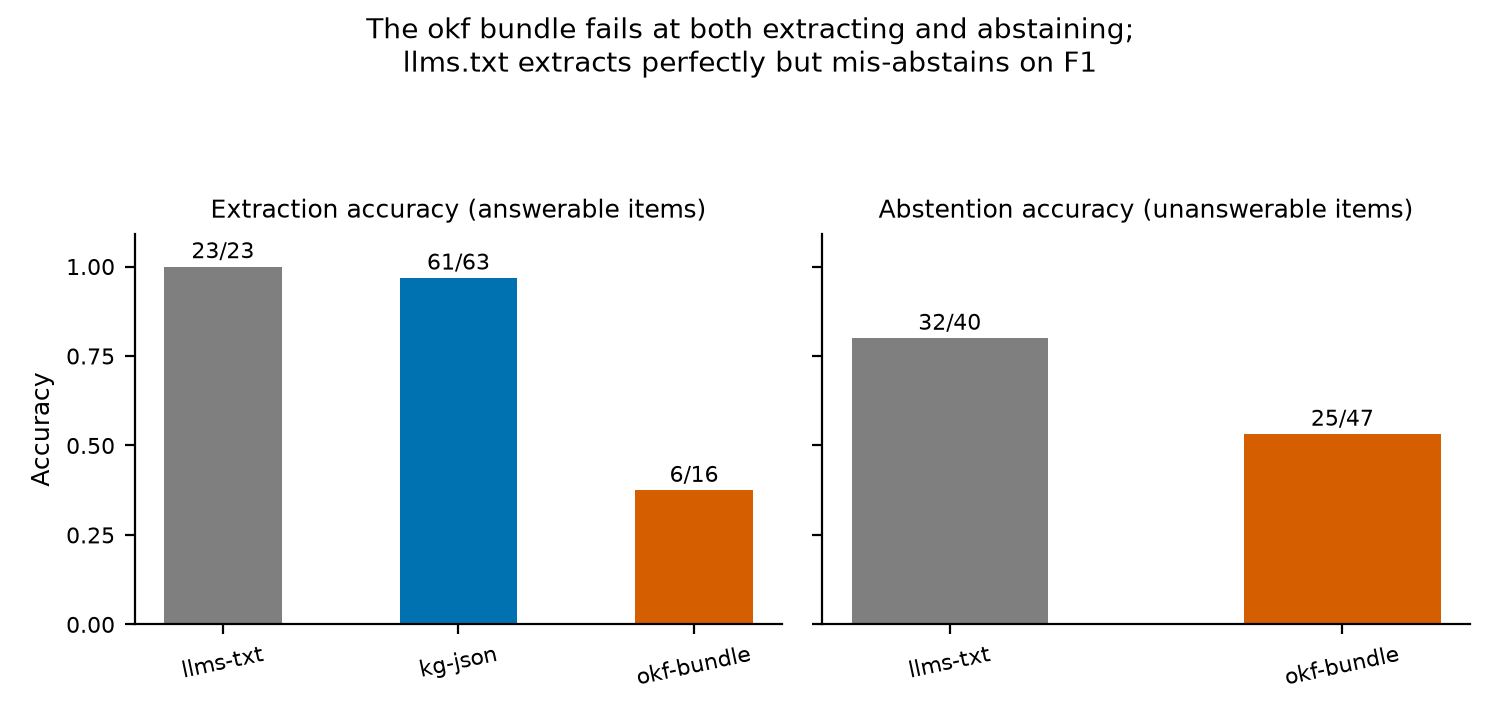
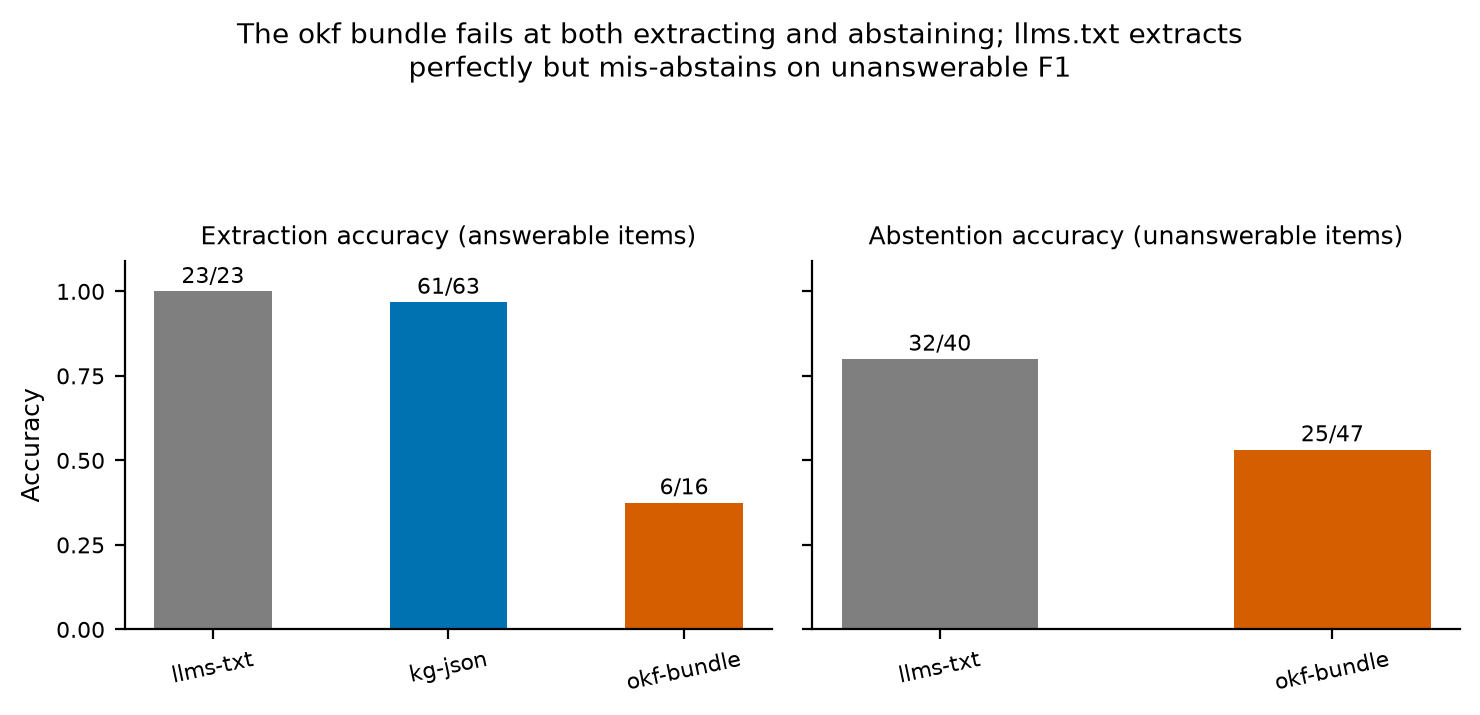
docs(exhibit): fix figure collisions, dedupe tables, fill methodology (#13)

diff --git a/figures/fig4-family-breakdown.py b/figures/fig4-family-breakdown.py
@@ -84,18 +84,18 @@ def main():
     abstention = {f: {arm: tally[arm][f] for arm in ARMS
                       if f not in ANSWERABLE[arm]} for f in families}
 
-    fig, axes = plt.subplots(1, 2, figsize=(8.6, 4.0), dpi=200)
+    fig, axes = plt.subplots(1, 2, figsize=(11.0, 4.4), dpi=200)
     draw_panel(axes[0], "Extraction (answerable arms only)", extraction)
     draw_panel(axes[1], "Abstention (unanswerable arms only)", abstention)
     handles = [plt.Rectangle((0, 0), 1, 1, color=COLORS[a]) for a in ARMS]
     fig.legend(handles, ARMS, fontsize=8, loc="upper center", ncol=3,
-               frameon=False, bbox_to_anchor=(0.5, 0.9))
+               frameon=False, bbox_to_anchor=(0.5, 0.92))
     fig.suptitle("okf-bundle collapses on the only family all arms can "
                  "answer (F4: 6/16)\nand on abstention, where llms-txt "
-                 "misses only F1", fontsize=10, y=1.0)
-    fig.tight_layout(rect=(0, 0, 1, 0.84))
+                 "misses only F1", fontsize=10, y=1.02)
+    fig.tight_layout(rect=(0, 0, 1, 0.85))
     out = pathlib.Path(__file__).resolve().parent / "fig4-family-breakdown.png"
-    fig.savefig(out)
+    fig.savefig(out, bbox_inches="tight")
     print(f"wrote {out}")
 
 

diff --git a/figures/fig1-arm-comparison.py b/figures/fig1-arm-comparison.py
@@ -21,8 +21,8 @@ ARMS = ["llms-txt", "kg-json", "okf-bundle"]
 COLORS = {"llms-txt": "#7f7f7f", "kg-json": "#0072B2", "okf-bundle": "#D55E00"}
 # Holm-adjusted McNemar exact p-values from results/analysis-v2.json.
 BRACKETS = [
-    ("llms-txt", "kg-json", "Holm p=0.070 (ns)", 0.955),
-    ("kg-json", "okf-bundle", "Holm p<1e-7", 1.075),
+    ("llms-txt", "kg-json", "Holm p=0.070 (ns)", 1.055),
+    ("kg-json", "okf-bundle", "Holm p<1e-7", 1.155),
 ]
 
 
@@ -72,7 +72,7 @@ def main():
     ax.set_xticklabels([f"{a}\n(n={counts[a][1]})" for a in arms], fontsize=9)
     ax.set_ylabel("Item score rate", fontsize=9)
     ax.tick_params(axis="y", labelsize=8)
-    ax.set_ylim(0, 1.12)
+    ax.set_ylim(0, 1.2)
     ax.set_yticks([0, 0.25, 0.5, 0.75, 1.0])
 
     for left, right, label, y in BRACKETS:
@@ -85,7 +85,7 @@ def main():
                  "scored 0.49 on preregistered item score", fontsize=10)
     fig.tight_layout()
     out = pathlib.Path(__file__).resolve().parent / "fig1-arm-comparison.png"
-    fig.savefig(out)
+    fig.savefig(out, bbox_inches="tight")
     print(f"wrote {out}")
 
 

diff --git a/figures/fig3-conditional-accuracy.py b/figures/fig3-conditional-accuracy.py
@@ -78,12 +78,12 @@ def main():
         ax.tick_params(axis="y", labelsize=8)
     axes[0].set_ylabel("Accuracy", fontsize=9)
 
-    fig.suptitle("The okf bundle fails at both extracting and abstaining;\n"
-                 "llms.txt extracts perfectly but mis-abstains on F1",
+    fig.suptitle("The okf bundle fails at both extracting and abstaining; "
+                 "llms.txt extracts\nperfectly but mis-abstains on unanswerable F1",
                  fontsize=10)
-    fig.tight_layout(rect=(0, 0, 1, 0.9))
+    fig.tight_layout(rect=(0, 0, 1, 0.87))
     out = pathlib.Path(__file__).resolve().parent / "fig3-conditional-accuracy.png"
-    fig.savefig(out)
+    fig.savefig(out, bbox_inches="tight")
     print(f"wrote {out}")
 
 

diff --git a/figures/fig2-partial-credit.py b/figures/fig2-partial-credit.py
@@ -67,7 +67,7 @@ def main():
     ax.set_ylabel("Partial credit\n(dice overlap / integer fraction)",
                   fontsize=9)
     ax.tick_params(axis="y", labelsize=8)
-    ax.set_ylim(-0.03, 1.03)
+    ax.set_ylim(-0.05, 1.07)
     ax.set_title("Partial credit separates kg-json from both other arms",
                  fontsize=10)
     ax.text(0.5, -0.24, ANNOTATION, transform=ax.transAxes, ha="center",
@@ -75,7 +75,7 @@ def main():
     fig.subplots_adjust(bottom=0.3)
     fig.tight_layout(rect=(0, 0.04, 1, 1))
     out = pathlib.Path(__file__).resolve().parent / "fig2-partial-credit.png"
-    fig.savefig(out)
+    fig.savefig(out, bbox_inches="tight")
     print(f"wrote {out}")
 
 

diff --git a/README.md b/README.md
@@ -13,13 +13,15 @@ grounding-source-exhibit is a pre-registered comparison of three grounding-sourc
 
 ## Status
 
-**Complete.** The v2.1 full run executed 63 items x 3 arms at temperature 0 with zero empty-after-retries responses; findings are in [results/findings.md](results/findings.md) and statistics in [results/analysis-v2.json](results/analysis-v2.json). The run history matters and is reported as such: the v1 run aborted before scoring (coverage ceiling; archived in [results/raw-v1-aborted/](results/raw-v1-aborted/)); the v2.0 pilot gate STOPPED the full run on a mis-preregistered F3 family and both non-kg arms answered confidently wrong (archived in [results/raw-v2-pilot-aborted/](results/raw-v2-pilot-aborted/)); v2.1 re-registered F3 as forward cluster membership before any v2.1 item ran, its pilot passed all four blocking gates ([results/raw-v2-pilot-pass/](results/raw-v2-pilot-pass/)), and only then did the full run execute. The v1 seal is archived at Zenodo DOI 10.5281/zenodo.24410381; the v2.1 run is deposited at DOI 10.5281/zenodo.24424679 under the same concept record.
+**Status: complete. Outcome: kg-json scored 61/63 and llms.txt 55/63 (Holm p = 0.070, not separable); the okf bundle scored 31/63 and lost to both arms (Holm p < 1e-5) with 23/63 context truncations and confident wrong answers on most unanswerable items.** Full statistics in [results/analysis-v2.json](results/analysis-v2.json); findings in [results/findings.md](results/findings.md).
+
+The run history matters and is reported as such: the v1 run aborted before scoring (coverage ceiling; archived in [results/raw-v1-aborted/](results/raw-v1-aborted/)); the v2.0 pilot gate STOPPED the full run on a mis-preregistered F3 family and both non-kg arms answered confidently wrong (archived in [results/raw-v2-pilot-aborted/](results/raw-v2-pilot-aborted/)); v2.1 re-registered F3 as forward cluster membership before any v2.1 item ran, its pilot passed all four blocking gates ([results/raw-v2-pilot-pass/](results/raw-v2-pilot-pass/)), and only then did the full run execute. The v1 seal is archived at Zenodo DOI 10.5281/zenodo.24410381; the v2.1 run is deposited at DOI 10.5281/zenodo.24424679 under the same concept record.
 
 ## Experiment Index
 
 | Slug | Question | Status | Key Result |
 |------|----------|--------|------------|
-| `grounding-source-v2.1` | Which grounding surface can an agent actually use: llms.txt, knowledge-graph.json, or the OKF v0.3 bundle? | complete | kg-json 61/63, llms.txt 55/63 (Holm p = 0.070, ns); okf-bundle 31/63 (Holm p < 1e-5 vs both), 23/63 truncations ([results/findings.md](results/findings.md)) |
+| `grounding-source-v2.1` | Which grounding surface can an agent actually use: llms.txt, knowledge-graph.json, or the OKF v0.3 bundle? | complete | kg-json and llms.txt not separated; okf-bundle loses to both — see [results/findings.md](results/findings.md) |
 
 ## Pipeline
 
@@ -38,7 +40,7 @@ graph TD
     figures --> findings
 ```
 
-*Figure 1: The experiment pipeline. The sealed v2.1 question set feeds all three arms, each grounded by a distinct frozen payload verified by sha256 at run start; the bench stores full raw responses per arm, score-v2.py applies the sealed per-family metric definitions with the answerability map, analysis-v2.py derives the preregistered statistics, and the figures and findings render from the same raw records.*
+*Diagram: The experiment pipeline. The sealed v2.1 question set feeds all three arms, each grounded by a distinct frozen payload verified by sha256 at run start; the bench stores full raw responses per arm, score-v2.py applies the sealed per-family metric definitions with the answerability map, analysis-v2.py derives the preregistered statistics, and the figures and findings render from the same raw records.*
 
 ## Endpoints
 
@@ -50,13 +52,7 @@ graph TD
 | llms-txt | 63 | 55 | 0.873 | [0.769, 0.934] | 1.000 (n=23) | 0.800 (n=40) | 2 |
 | okf-bundle | 63 | 31 | 0.492 | [0.373, 0.612] | 0.375 (n=16) | 0.532 (n=47) | 23 |
 
-*Table 2: Pairwise comparisons (sealed tests, `results/analysis-v2.json`).*
-
-| Pair | McNemar discordant [b, c] | Holm p | Significant at 0.05 | Permutation p (partial credit) |
-| --- | --- | --- | --- | --- |
-| llms-txt vs kg-json | [1, 7] | 0.070 | no | < 1e-4 |
-| llms-txt vs okf-bundle | [25, 1] | 1.6e-6 | yes | 0.44 (no separation) |
-| kg-json vs okf-bundle | [31, 1] | 4.6e-8 | yes | < 1e-4 |
+Pairwise McNemar exact tests with Holm-Bonferroni, and the secondary paired permutation test on partial credit, are in [results/findings.md](results/findings.md) (Primary and Secondary Endpoint sections) and re-derive from [results/analysis-v2.json](results/analysis-v2.json): llms.txt vs kg-json is not separated (Holm p = 0.070); okf-bundle loses to both (Holm p = 1.6e-6 and 4.6e-8).
 
 ## Repository Layout
 
@@ -98,19 +94,19 @@ Figure scripts live in `figures/` and render from committed `results/raw-v2/` re
 
 ![Item score per arm with 95% Wilson intervals and Holm-adjusted McNemar brackets](figures/fig1-arm-comparison.png)
 
-*Figure 2: Preregistered item-score rate per arm (correct answer or correct abstention) over the same 63 sealed questions, with 95% Wilson intervals and Holm-adjusted McNemar exact brackets. kg-json 0.97 and llms.txt 0.87 are not separated (p = 0.070); the okf bundle 0.49 loses to both (p < 1e-7 and p = 1.6e-6).*
+*Figure 1: Preregistered item-score rate per arm (correct answer or correct abstention) over the same 63 sealed questions, with 95% Wilson intervals and Holm-adjusted McNemar exact brackets. kg-json and llms.txt are not separated (p = 0.070); the okf bundle loses to both (Holm p < 1e-5).*
 
 ![Per-arm partial-credit distributions with the preregistered paired permutation annotation](figures/fig2-partial-credit.png)
 
-*Figure 3: Secondary endpoint. Per-arm partial-credit distributions (jittered strip over box plot; dice overlap on set-valued families, integer fraction on F2) with the sealed paired permutation results. kg-json separates from both arms on partial credit; llms.txt and okf-bundle do not separate (p = 0.44) despite a 38-point item-score gap.*
+*Figure 2: Secondary endpoint. Per-arm partial-credit distributions (jittered strip over box plot; dice overlap on set-valued families, integer fraction on F2) with the sealed paired permutation results. kg-json separates from both arms on partial credit; llms.txt and okf-bundle do not separate (p = 0.44) despite a 38-point item-score gap.*
 
 ![Conditional extraction and abstention accuracy per arm](figures/fig3-conditional-accuracy.png)
 
-*Figure 4: Conditional accuracies, the two components of the composite item score. Extraction: llms.txt is perfect on its 23 answerable items, kg-json 61/63 overall, okf-bundle 6/16. Abstention: llms.txt 32/40, okf-bundle 25/47; the okf bundle fails at both components, llms.txt only mis-abstains on unanswerable F1.*
+*Figure 3: Conditional accuracies, the two components of the composite item score. Extraction: llms.txt is perfect on its 23 answerable items, kg-json 61/63 overall, okf-bundle 6/16. Abstention: llms.txt 32/40, okf-bundle 25/47; the okf bundle fails at both components, llms.txt only mis-abstains on unanswerable F1.*
 
 ![Per-family breakdown with extraction and abstention in separate panels](figures/fig4-family-breakdown.png)
 
-*Figure 5: Exploratory per-family breakdown (labeled exploratory in seal-v2.json), split so each bar means exactly one thing: the extraction panel shows only arms for which the family is answerable, the abstention panel only unanswerable ones. okf-bundle collapses on F4, the only family all arms can answer (6/16), and on abstention; llms-txt trails kg-json only on unanswerable F1.*
+*Figure 4: Exploratory per-family breakdown (labeled exploratory in seal-v2.json), split so each bar means exactly one thing: the extraction panel shows only arms for which the family is answerable, the abstention panel only unanswerable ones. okf-bundle collapses on F4, the only family all arms can answer (6/16), and on abstention; llms-txt trails kg-json only on unanswerable F1.*
 
 ## Pre-Registration
 

diff --git a/METHODOLOGY.md b/METHODOLOGY.md
@@ -4,7 +4,9 @@ Experimental design and analysis plan for experiments in this repository. Replac
 
 ## Research Question
 
-TODO: State the hypothesis or question the repo's experiments address. Frame it so a null result is still informative.
+Which grounding-source payload can an AI agent actually use to answer questions about clouatre.ca content: the curated `llms.txt`, the full frozen `knowledge-graph.json`, or the frozen OKF v0.3 bundle (index plus every cluster and concept page)? The question is framed so a null result is informative: if the curated file carries as much answerable signal as the full knowledge graph (primary endpoint not separated), publishers do not need the heavier artifact; if a payload cannot answer a question, a correct abstention scores 1, so failure to abstain is measurable rather than hidden.
+
+The v2.1 preregistration is [seal-v2.json](seal-v2.json), sealed before any v2 run and superseding the archived [seal.json](seal.json) v1 seal after the v1 abort. Results: [results/findings.md](results/findings.md).
 
 ## Pre-Registration
 
@@ -16,26 +18,25 @@ Every experiment MUST have its protocol, rubric, and scoring prompts committed u
 
 ## Experimental Design
 
-TODO: Describe per experiment:
+Three arms over the same 63 sealed questions (F1 citation edges: 20, F2 edgeStats link counts: 20, F3 forward cluster membership: 7, F4 cluster membership of a post: 16), only the grounding payload differs, sha256-pinned in seal-v2.json and verified at run start:
 
-- Task and target (issue, dataset, or benchmark used).
-- Groups: control and treatment conditions, with exact prompt text or deltas.
-- Sample size per group and stopping rule.
-- Agent or model configuration (model, temperature, provider, extensions).
+- Arm 1 `llms-txt`: frozen `llms.txt`
+- Arm 2 `kg-json`: frozen `knowledge-graph.json`
+- Arm 3 `okf-bundle`: frozen OKF v0.3 bundle
+
+A per-family answerability map grades abstention: F1 and F2 are kg-json only, F3 is kg-json and llms.txt, F4 is all three arms. Model and sampling are fixed per the seal (@cf/google/gemma-4-26b-a4b-it, temperature 0, single attempt, retries on empty responses only). The primary endpoint is the per-arm item score (correct answer or correct abstention, n = 63) with pairwise McNemar exact tests and Holm-Bonferroni across the 3 pairs; the secondary endpoint is a paired permutation test on partial credit (10000 permutations, seed 20261123). A blocking pilot gate (floor, saturation, F3 competitiveness, llms-txt F4 extraction guard) must pass before the full run. Per-family breakdowns are labeled exploratory in the seal.
 
 ## Blind Scoring
 
-Scorers receive only the output artifacts and the rubric. No group labels, run metadata, or sibling outputs are visible during scoring. Report any inter-rater reliability checks and their agreement statistics.
+Scoring is deterministic and sealed, not model-judged: [recipe/score-v2.py](recipe/score-v2.py) applies the per-family metric definitions (set equality / dice for F1, F3, F4; integer match for F2; abstention via the answerability map) to the raw responses in `results/raw-v2/`. The blinded question files (`ground-truth/blinded-*-v2.1.json`, committed pre-run) regenerate the sha256 hashes recorded in the seal; no group label, run metadata, or sibling output enters scoring.
 
 ## Analysis Plan
 
-Analysis results land in `experiments/<slug>/analysis.json` (schema in [DATA_DICTIONARY.md](DATA_DICTIONARY.md), enforced by `validate_schema.py`). Scores with per-criterion justifications land in `scores.json`. Figures are generated from `recipe/` scripts into `figures/`.
+[analysis-v2.py](analysis-v2.py) derives every reported number from the committed raw records (`results/raw-v2/`): primary McNemar exact + Holm, secondary paired permutation on partial credit, conditional extraction and abstention accuracies, and truncation counts. Output lands in `results/analysis-v2.json` (schema in [DATA_DICTIONARY.md](DATA_DICTIONARY.md)); findings in `results/findings.md`; figures in `figures/` render from the same records.
 
 ## Threats to Validity
 
-TODO: Enumerate, at minimum:
-
-- Ceiling or floor effects in the rubric.
-- Rubric-scorer co-design bias.
-- Run-to-run variance and seed/provider nondeterminism.
-- Contamination of the task in model training data.
+- Single model, single site, one deterministic attempt per item; run-to-run variance is unquantified by design (temperature 0), so rates carry item-sampling variance only (MDD ~22-24pp aggregate at n=63, per the seal).
+- The composite endpoint mixes extraction and abstention credit; read conditional accuracies, not just headline rates.
+- okf-bundle truncations reflect payload size interacting with the 4096-token completion budget, not ranking quality of the bundle's content; a larger budget or chunked retrieval could change its extraction accuracy (phase 2 candidate).
+- The v2.0 abort means the preregistered question set changed once; the v2.1 seal is the operative registration and was sealed before any v2.1 item ran.

diff --git a/DATA_DICTIONARY.md b/DATA_DICTIONARY.md
@@ -4,14 +4,20 @@ This document defines the schema and field meanings for experiment data files in
 
 ## Layout
 
-Each experiment directory `experiments/<slug>/` contains:
+Experiment directories hold pre-registration artifacts and v1-format analysis records:
 
-- `analysis.json`: run metadata, message counts, and evaluation scores (schema below)
-- `scores.json`: per-criterion rubric scores with justifications
-- `protocol.md`, `runner-prompt.md`, `scorer-prompt.md`: pre-registration artifacts
-- `sessions/`: raw session logs or database exports
+- `experiments/<slug>/analysis.json`: run metadata, message counts, and evaluation scores (schema below)
+- `experiments/<slug>/scores.json`: per-criterion rubric scores with justifications
+- `experiments/<slug>/protocol.md`, `runner-prompt.md`, `scorer-prompt.md`: pre-registration artifacts
+- `experiments/<slug>/sessions/`: raw session logs or database exports
 
-## analysis.json
+The v2.1 run data lives elsewhere:
+
+- `results/raw-v2/<arm>/run-*.json`: per-run records (schema below)
+- `results/analysis-v2.json`: sealed statistics (`statistics.primary` McNemar + Holm, `statistics.secondary` permutation, `comparisons` per pair)
+- `results/findings.md`: reported findings
+
+## analysis.json (`experiments/<slug>/analysis.json`)
 
 ### Top-level schema
 
@@ -38,7 +44,9 @@ Each experiment directory `experiments/<slug>/` contains:
 | `conclusion` | string | no | Result summary |
 | `pre_acknowledged_limitations` | array | no | Limitations stated before analysis |
 
-### Run record schema
+## Run record (`results/raw-v2/<arm>/run-*.json`)
+
+One JSON record per run; full raw response plus sealed scorer output:
 
 | Field | Type | Nullable | Description |
 |-------|------|----------|-------------|
@@ -50,9 +58,18 @@ Each experiment directory `experiments/<slug>/` contains:
 | `total_tokens` | integer | no | Sum of input and output tokens |
 | `wall_clock_seconds` | number | no | Elapsed wall-clock seconds |
 | `bytes` | integer \| null | yes | Session byte size, if recorded |
-| `raw_response` | string | no | Full, untruncated raw model response for the run. The upstream bench caps captured bodies at `body_512b`; this field supersedes it so post-hoc partial-credit scoring can be re-derived from the record itself. |
-| `exact_match` | boolean | no | Primary metric: `resolveChainSequence` exact sequence match against the reading-chain ground truth |
-| `partial_credit` | number \| null | yes | Secondary metric: per-step prefix credit (fraction of leading steps matching the expected ordered slug prefix); null if the run produced no parseable sequence |
+| `raw_response` | string | no | Full raw model response for the run, stored verbatim so scoring can be re-derived post-hoc |
+| `item_id` | string | no | Sealed question identifier (`ground-truth/full-v2.1.json`) |
+| `family` | string | no | Preregistered family: `F1` (citation edges), `F2` (edgeStats link counts), `F3` (forward cluster membership), or `F4` (cluster membership of a post) |
+| `model` | string | no | Model identifier used for the run |
+| `exact_match` | integer | no | Sealed scorer output: 1 if the parsed answer matches the sealed ground truth under the per-family metric (set equality / dice for F1, F3, F4; integer match for F2), else 0 |
+| `partial_credit` | number | no | Secondary metric: dice overlap on set-valued families (F1, F3, F4) or fraction of correct integers on F2; 0.0 when the run abstained |
+| `abstained` | boolean | no | True when the scorer found no parseable answer (counted as abstention) |
+| `item_score` | integer \| null | no | Primary metric under the seal answerability map: 1 on a correct answer (answerable item) or a correct abstention (unanswerable item), 0 otherwise; null if scored without `--arm` |
+| `prompt_tokens` | integer | no | Prompt tokens reported by the provider |
+| `completion_tokens` | integer | no | Completion tokens reported by the provider |
+| `reasoning_tokens` | integer \| null | yes | Reasoning tokens reported by the provider, if any |
+| `finish_reason` | string | no | Provider finish reason (`stop`, `length`, ...); `length` flags a context truncation |
 | `note` | string \| null | yes | Optional note (e.g. failure reason) |
 
 ## scores.json

diff --git a/results/findings.md b/results/findings.md
@@ -26,7 +26,7 @@ Pairwise McNemar exact tests with Holm-Bonferroni across the 3 pairs:
 
 ## Secondary Endpoint
 
-Paired permutation test on partial credit (10000 permutations, seed 20261123), as sealed: kg-json separates from both llms-txt (mean difference 0.574, p < 1e-4) and okf-bundle (p < 1e-4); llms-txt and okf-bundle do **not** separate on partial credit (mean difference 0.057, p = 0.44) despite a 38-point item-score gap. The composite mixes extraction and abstention credit, so the pair reads as follows: llms-txt earns its item score mostly through correct abstentions (abstention accuracy 0.800) and perfect extraction on what it answers, while okf-bundle's partial credit comes from its few extraction attempts, and its item score collapses because it fails to abstain where the payload cannot answer.
+Paired permutation test on partial credit (10000 permutations, seed 20261123), as sealed: kg-json separates from both other arms on partial credit (kg-json minus llms-txt +0.574, p < 1e-4; kg-json minus okf-bundle +0.52, p < 1e-4); llms-txt and okf-bundle do **not** separate (llms-txt minus okf-bundle +0.057, p = 0.44) despite a 38-point item-score gap. The composite mixes extraction and abstention credit, so the pair reads as follows: llms-txt earns its item score mostly through correct abstentions (abstention accuracy 0.800) and perfect extraction on what it answers, while okf-bundle's partial credit comes from its few extraction attempts, and its item score collapses because it fails to abstain where the payload cannot answer.
 
 ## Exploratory: Per-Family Breakdown
 
